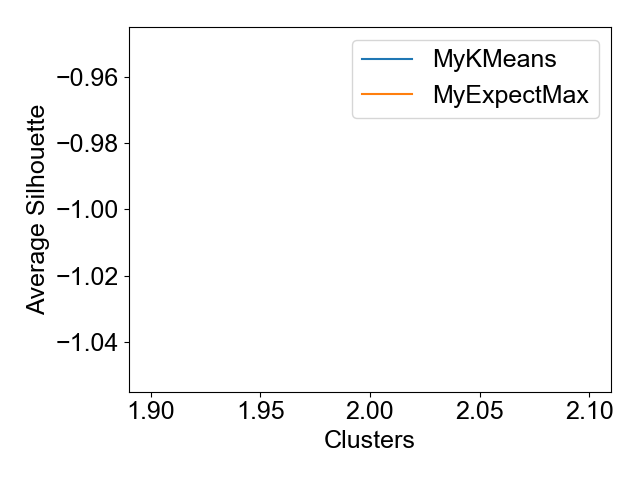
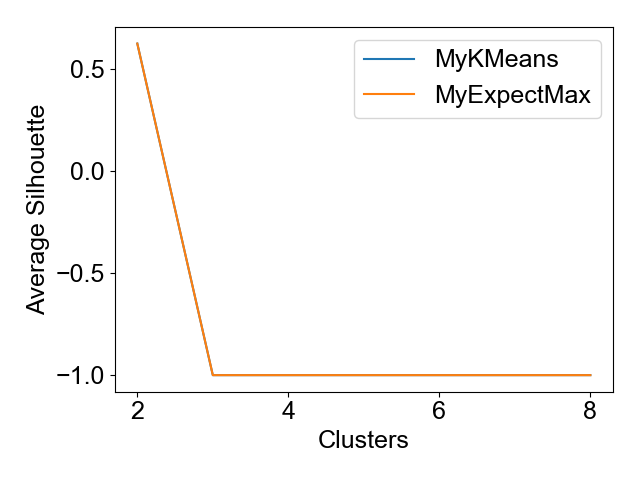
Save results

diff --git a/main.py b/main.py
@@ -12,6 +12,8 @@ from sklearn.metrics import silhouette_score
 from classes.my_k_means import MyKMeans
 from classes.my_expect_max import MyExpectMax
 
+RS = 11
+
 def scatter_stuff(X, y, centers, name):
     plt.scatter(X[:, 0], X[:, 1], c=y, s=10)
     plt.scatter(centers[:, 0], centers[:, 1], c='black', s=200, marker='x')
@@ -34,44 +36,66 @@ def plot_stuff(cluster_counts, k_means, expect_max, name):
 #    plt.show()
 
 def lowest_label_error(labels1, labels2):
-    n_labels = np.unique(labels1).shape[0]
-    masks1 = np.zeros((n_labels, labels1.shape[0]), dtype=bool)
-    masks2 = np.copy(masks1)
-    for i in range(n_labels):
-        masks1[i] = np.array([label == i for label in labels1])
-    for i in range(n_labels):
-        masks2[i] = np.array([label == i for label in labels2])
+    # Get arrays of unique labels.
+    unique_labels1 = np.unique(labels1)
+    unique_labels2 = np.unique(labels2)
+    n_unique_labels1 = unique_labels1.shape[0]
+    n_unique_labels2 = unique_labels2.shape[0]
+    n_samples1 = labels1.shape[0]
+    n_samples2 = labels2.shape[0]
+    if n_samples1 != n_samples2:
+        raise Exception('oh no! n_samples are different lengths!')
 
+    # Check that the two inputs have the same number of unique labels.
+    if n_unique_labels1 != n_unique_labels2:
+        print('oh no! unique labels are not the same length!')
+        print('n_unique_labels1', n_unique_labels1)
+        print('n_unique_labels2', n_unique_labels2)
+
+    # Get the greater number of unique labels.
+    greater_n_unique_labels = max(n_unique_labels1, n_unique_labels2)
+
+    # Init empty masks.
+    masks1 = np.zeros((greater_n_unique_labels, n_samples1), dtype=bool)
+    masks2 = np.zeros((greater_n_unique_labels, n_samples2), dtype=bool)
+
+    # Create an array for each unique value and add it to a mask.
+    for i in range(n_unique_labels1):
+        masks1[i] = np.array([label == unique_labels1[i] for label in labels1])
+    for i in range(n_unique_labels2):
+        masks2[i] = np.array([label == unique_labels2[i] for label in labels2])
+
+    # Find the lowest error between mask1 and every permutation of mask2.
     lowest_error = np.inf
     for masks2_perm in itertools.permutations(masks2):
         masks2_perm = np.array(masks2_perm)
-        error = 0
-        for i in range(masks1.shape[0]):
-            if not np.array_equal(masks1[i], masks2_perm[i]):
-                error += 1
+        error = np.count_nonzero(masks1 != masks2_perm)
         if error < lowest_error:
             lowest_error = error
-    return lowest_error / labels1.shape[0]
 
-#target = 'quality'
-#train = pd.read_csv(f'wine_train.csv')
-#test = pd.read_csv(f'wine_test.csv')
-#full = pd.concat([train, test])
-#y = np.array(train.loc[:,target])
-#X = np.array(train.drop(target, axis=1))
+    # Return the error percentage.
+    return lowest_error / masks1.size
 
-X, y = make_blobs(
-    centers=6,
-    n_features=2,
-    n_samples=1000,
-    random_state=11
-)
-print('score:', silhouette_score(X, y))
+name = 'wine'
+cluster_std = 10000
+target = 'quality'
+train = pd.read_csv(f'wine_train.csv')
+test = pd.read_csv(f'wine_test.csv')
+full = pd.concat([train, test])
+y = np.array(train.loc[:,target])
+X = np.array(train.drop(target, axis=1))
 
-np.random.seed(11)
+#name = 'blobs'
+#cluster_std = 1
+#X, y = make_blobs(
+#    centers=6,
+#    n_features=2,
+#    n_samples=1000,
+#    random_state=RS
+#)
+
+np.random.seed(RS)
 random_states = np.random.choice(range(1000), size=5, replace=False)
-#random_states =  [25]
-random_states =  [11]
 
 metrics = {
     'MyKMeans': {'score': -1},
@@ -82,45 +106,38 @@ k_means_scores = []
 expexct_max_scores = []
 cluster_counts = []
 total_start_time = time.time()
-for n_clusters in range(6,7):
+for n_clusters in range(2, np.unique(y).shape[0] + 2):
     best_score = {'MyKMeans': -1, 'MyExpectMax': -1}
-    for cluster_std in [10000]:
-        for random_state in random_states:
-            clusterers = [
-#                MyKMeans(data=X, n_clusters=n_clusters, random_state=random_state),
-                MyExpectMax(data=X, n_clusters=n_clusters, random_state=random_state, cluster_std=cluster_std)
-            ]
+    for random_state in random_states:
+        clusterers = [
+            MyKMeans(data=X, n_clusters=n_clusters, random_state=random_state),
+            MyExpectMax(data=X, n_clusters=n_clusters, random_state=random_state, cluster_std=cluster_std)
+        ]
 
-            for clusterer in clusterers:
-                alg = clusterer.__class__.__name__
+        for clusterer in clusterers:
+            alg = clusterer.__class__.__name__
 
-                start_time = time.time()
-                cluster_labels, centers, iters = clusterer.run()
-                print('n_clusters', np.unique(n_clusters))
-                print('cluster_labels', np.unique(cluster_labels))
-                exit()
-                elapsed = round(time.time() - start_time, 3)
-                score = silhouette_score(X, cluster_labels)
+            start_time = time.time()
+            cluster_labels, centers, iters = clusterer.run()
+            elapsed = round(time.time() - start_time, 3)
+            score = silhouette_score(X, cluster_labels)
 
-#                scatter_stuff(X, cluster_labels, centers, alg)
+            if score > metrics[alg]['score'] or \
+               (score == metrics[alg]['score'] and \
+               (iters < metrics[alg]['iters'] or elapsed < metrics[alg]['elapsed'])):
+                metrics[alg]['score'] = score
+                metrics[alg]['n_clusters'] = n_clusters
+                metrics[alg]['random_state'] = random_state
+                metrics[alg]['iters'] = iters
+                metrics[alg]['elapsed'] = elapsed
+                metrics[alg]['cluster_std'] = cluster_std
+                metrics[alg]['error'] = lowest_label_error(y, cluster_labels)
+#            if score > best_score[alg]:
+                best_score[alg] = score
 
-                if score > metrics[alg]['score'] or \
-                   (score == metrics[alg]['score'] and \
-                   (iters < metrics[alg]['iters'] or elapsed < metrics[alg]['elapsed'])):
-                    metrics[alg]['score'] = score
-                    metrics[alg]['n_clusters'] = n_clusters
-                    metrics[alg]['random_state'] = random_state
-                    metrics[alg]['iters'] = iters
-                    metrics[alg]['elapsed'] = elapsed
-                    metrics[alg]['cluster_std'] = cluster_std
-    #                metrics[alg]['error'] = lowest_label_error(cluster_labels, y)
-
-                if score > best_score[alg]:
-                    best_score[alg] = score
-
-        k_means_scores.append(best_score['MyKMeans'])
-        expexct_max_scores.append(best_score['MyExpectMax'])
-        cluster_counts.append(n_clusters)
+    k_means_scores.append(best_score['MyKMeans'])
+    expexct_max_scores.append(best_score['MyExpectMax'])
+    cluster_counts.append(n_clusters)
 
 print('k_means_scores:', k_means_scores)
 print('expexct_max_scores:', expexct_max_scores)
@@ -128,4 +145,4 @@ print('expexct_max_scores:', expexct_max_scores)
 pprint.PrettyPrinter(indent=4).pprint(metrics)
 print('total_elapsed:', time.time() - total_start_time)
 
-plot_stuff(cluster_counts, k_means_scores, expexct_max_scores, 'wine')
+plot_stuff(cluster_counts, k_means_scores, expexct_max_scores, name)
